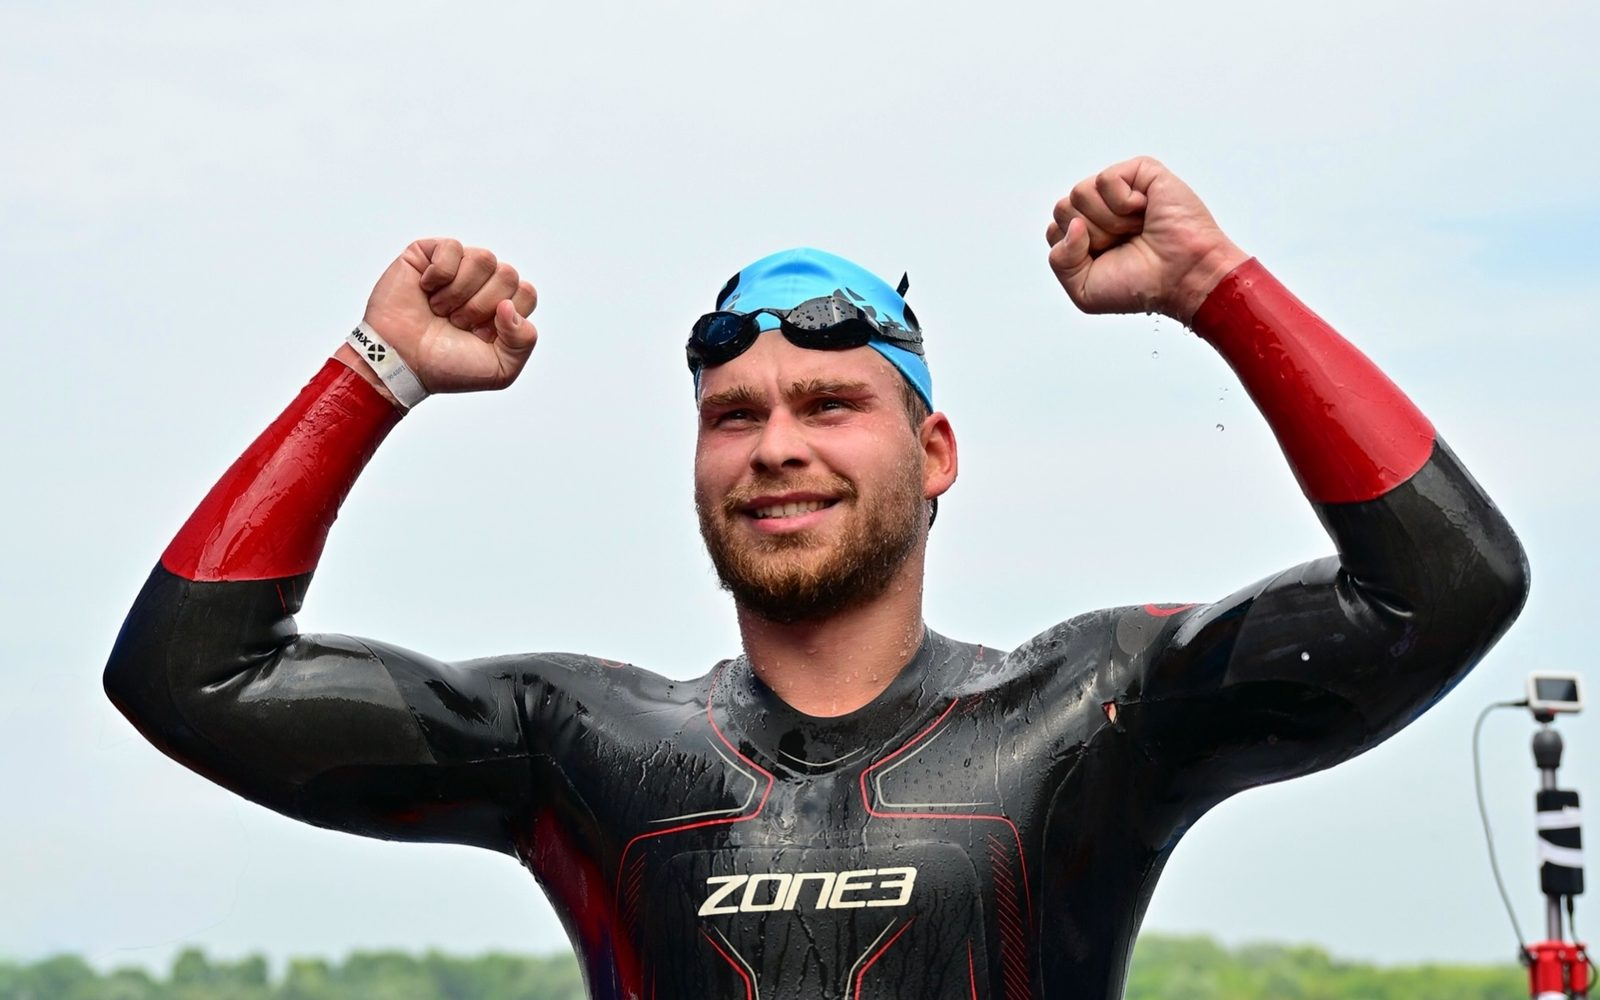
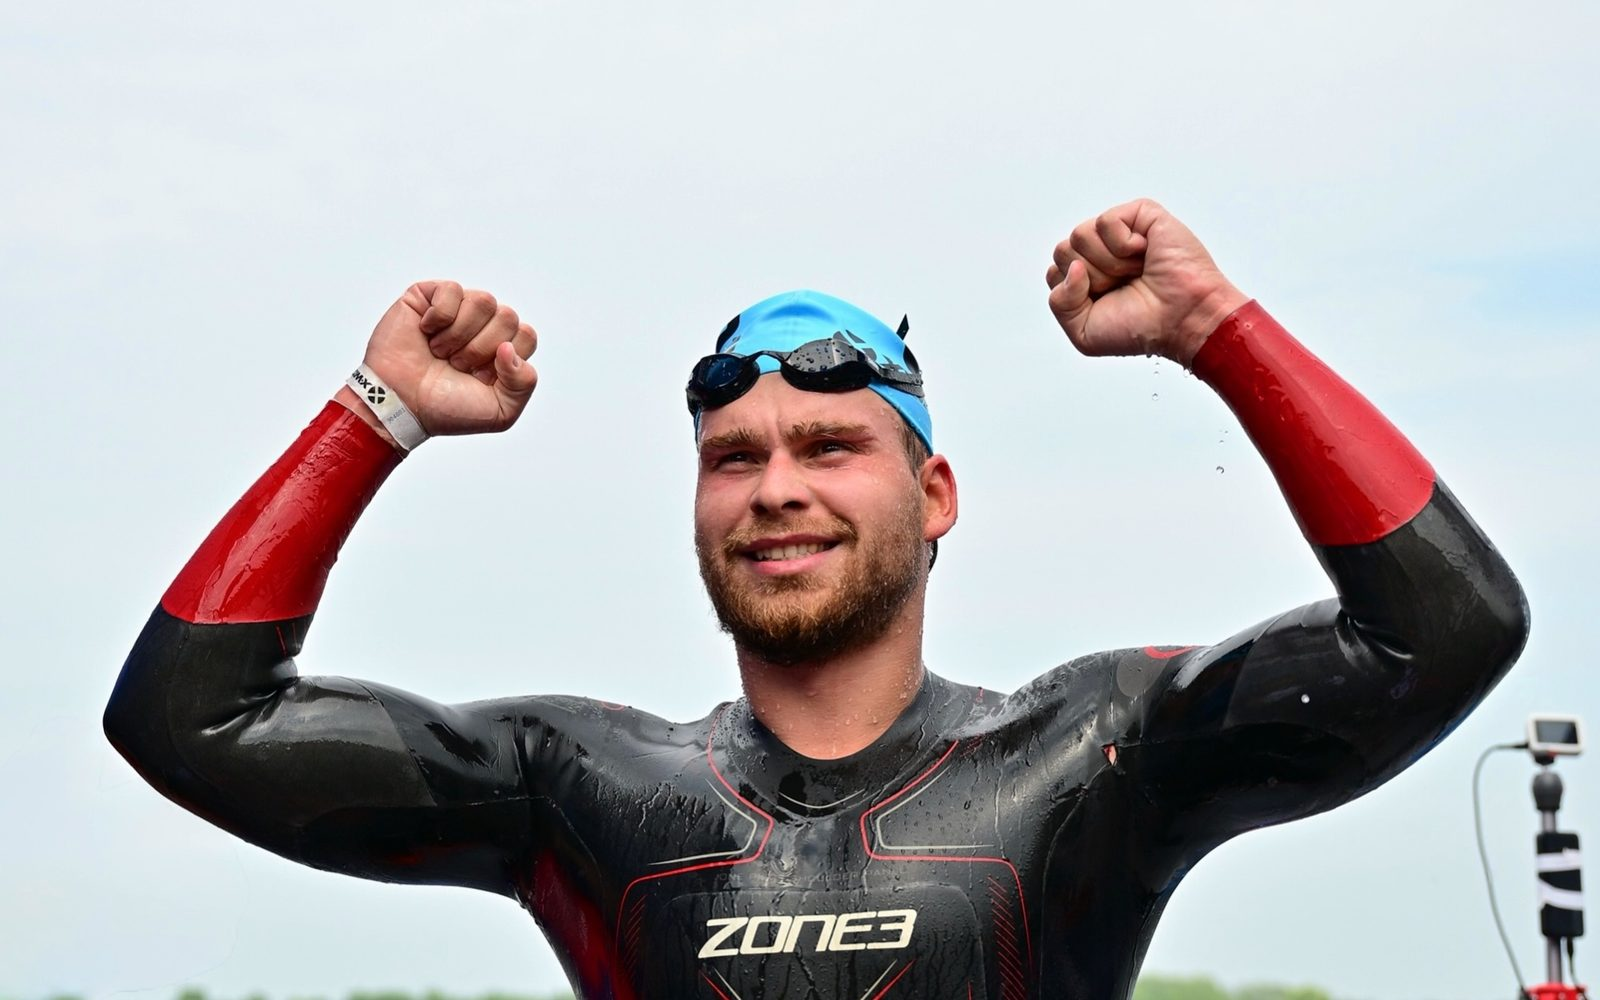
Портрет: текст на фото в матовой плашке, новые кадры в полном качестве (очки у бортика, Доха, прыжок, бассейн, финиш)

diff --git a/index.html b/index.html
@@ -20,7 +20,7 @@
   <meta name="twitter:card" content="summary_large_image">
   <link rel="preload" href="fonts/inter-cyrillic.woff2" as="font" type="font/woff2" crossorigin>
     <script>document.documentElement.classList.add('js')</script>
-  <link rel="stylesheet" href="css/style.css?v=1789386276">
+  <link rel="stylesheet" href="css/style.css?v=1789387455">
   <script type="application/ld+json">
   {"@context": "https://schema.org", "@graph": [{"@type": "Person", "@id": "https://akifevav0-droid.github.io/shabarshov/#person", "name": "Анатолий Шабаршов", "jobTitle": "Тренер по плаванию", "description": "Мастер спорта по плаванию, тренер для взрослых. Групповые и персональные тренировки в Москве, подготовка к открытой воде и триатлону.", "url": "https://akifevav0-droid.github.io/shabarshov/", "image": "https://akifevav0-droid.github.io/shabarshov/img/anatoliy_hero.jpg", "sameAs": ["https://profi.ru/profile/ShabarshovAS/", "https://www.instagram.com/shabarshov_/", "https://t.me/shabarshov", "https://t.me/shabarshov_club"], "address": {"@type": "PostalAddress", "addressLocality": "Москва", "addressCountry": "RU"}, "alumniOf": ["Училище олимпийского резерва", "РГУФК (РГУФКСМиТ)"], "award": ["Мастер спорта по плаванию", "Всемирные игры Masters, Абу-Даби 2026: 2-е и 3-е места"]}, {"@type": "SportsOrganization", "@id": "https://akifevav0-droid.github.io/shabarshov/#club", "name": "SHABARSHOV swimming club", "url": "https://akifevav0-droid.github.io/shabarshov/", "founder": {"@id": "https://akifevav0-droid.github.io/shabarshov/#person"}, "areaServed": "Москва", "sport": "Плавание", "makesOffer": [{"@type": "Offer", "price": "0", "priceCurrency": "RUB", "itemOffered": {"@type": "Service", "name": "Пробная тренировка по плаванию"}}, {"@type": "Offer", "price": "13600", "priceCurrency": "RUB", "itemOffered": {"@type": "Service", "name": "Абонемент на 8 групповых тренировок"}}, {"@type": "Offer", "price": "7500", "priceCurrency": "RUB", "itemOffered": {"@type": "Service", "name": "Абонемент на 4 групповые тренировки"}}, {"@type": "Offer", "price": "2000", "priceCurrency": "RUB", "itemOffered": {"@type": "Service", "name": "Разовая групповая тренировка"}}, {"@type": "Offer", "price": "3000", "priceCurrency": "RUB", "description": "от 3 000 ₽ + проход в бассейн", "itemOffered": {"@type": "Service", "name": "Персональная тренировка по плаванию"}}, {"@type": "Offer", "price": "3500", "priceCurrency": "RUB", "description": "за час", "itemOffered": {"@type": "Service", "name": "Тренировка на открытой воде"}}]}, {"@type": "SportsActivityLocation", "@id": "https://akifevav0-droid.github.io/shabarshov/#pool1", "name": "Бассейн СК МГТУ им. Баумана", "sport": "Плавание", "parentOrganization": {"@id": "https://akifevav0-droid.github.io/shabarshov/#club"}, "address": {"@type": "PostalAddress", "streetAddress": "Госпитальная наб., 4, стр. 1", "addressLocality": "Москва", "addressCountry": "RU"}, "openingHoursSpecification": [{"@type": "OpeningHoursSpecification", "dayOfWeek": ["Monday", "Thursday"], "opens": "19:45"}, {"@type": "OpeningHoursSpecification", "dayOfWeek": ["Monday", "Thursday"], "opens": "20:30"}], "description": "Группы: 19:45 средний и продвинутый уровень, 20:30 начинающий и средний, м. Электрозаводская"}, {"@type": "SportsActivityLocation", "@id": "https://akifevav0-droid.github.io/shabarshov/#pool2", "name": "Формула Воды", "sport": "Плавание", "parentOrganization": {"@id": "https://akifevav0-droid.github.io/shabarshov/#club"}, "address": {"@type": "PostalAddress", "streetAddress": "Мироновская ул., 27, стр. 2", "addressLocality": "Москва", "addressCountry": "RU"}, "openingHoursSpecification": [{"@type": "OpeningHoursSpecification", "dayOfWeek": ["Tuesday", "Friday"], "opens": "20:45"}], "description": "Группа начинающего и среднего уровня, м. Семёновская"}, {"@type": "SportsActivityLocation", "@id": "https://akifevav0-droid.github.io/shabarshov/#pool3", "name": "Акватория ЗИЛ", "sport": "Плавание", "parentOrganization": {"@id": "https://akifevav0-droid.github.io/shabarshov/#club"}, "address": {"@type": "PostalAddress", "streetAddress": "Автозаводская ул., 23А к4", "addressLocality": "Москва", "addressCountry": "RU"}, "openingHoursSpecification": [{"@type": "OpeningHoursSpecification", "dayOfWeek": ["Wednesday", "Friday"], "opens": "07:45"}], "description": "Мини-группа до 5 человек"}, {"@type": "SportsActivityLocation", "@id": "https://akifevav0-droid.github.io/shabarshov/#pool4", "name": "Лужники", "sport": "Плавание", "parentOrganization": {"@id": "https://akifevav0-droid.github.io/shabarshov/#club"}, "address": {"@type": "PostalAddress", "addressLocality": "Москва", "addressCountry": "RU"}, "description": "Персональные тренировки по договорённости, м. Спортивная"}, {"@type": "FAQPage", "mainEntity": [{"@type": "Question", "name": "Я не умею плавать. С чего начать?", "acceptedAnswer": {"@type": "Answer", "text": "С бесплатной пробной тренировки. За первое занятие вы подружитесь с водой и станете увереннее. Дальше подберём формат: группу по уровню или персональные занятия."}}, {"@type": "Question", "name": "Что взять на первую тренировку?", "acceptedAnswer": {"@type": "Answer", "text": "Справку для бассейна (как получить, расскажу при записи), купальник или плавки, шапочку, очки, сланцы, полотенце."}}, {"@type": "Question", "name": "Как проходит тренировка?", "acceptedAnswer": {"@type": "Answer", "text": "Час в воде: разминка, основное задание, заминка. Я в воде рядом и показываю упражнения сам."}}, {"@type": "Question", "name": "Что, если пропущу занятие?", "acceptedAnswer": {"@type": "Answer", "text": "Предупредите заранее, и найдём, как отработать. Пропуск без предупреждения не переносится."}}]}]}
   </script>
@@ -60,11 +60,11 @@
   <section class="band anchor" id="trener">
     <div class="wrap">
       <div class="portret rv">
-        <div class="portret__photo slides"><img class="slide is-on" src="img/wide_pool.jpg" width="1600" height="1000" alt="Анатолий Шабаршов в воде у дорожки бассейна" loading="lazy" decoding="async"><img class="slide" src="img/wide_finish.jpg" width="1600" height="1000" alt="Анатолий Шабаршов на финише заплыва на открытой воде" aria-hidden="true" loading="lazy" decoding="async"><img class="slide" src="img/wide_beach.jpg" width="1600" height="1000" alt="Анатолий Шабаршов выходит из воды после заплыва" aria-hidden="true" loading="lazy" decoding="async"><img class="slide" src="img/wide_singapore.jpg" width="1600" height="1000" alt="Анатолий Шабаршов на чемпионате мира Masters в Сингапуре" aria-hidden="true" loading="lazy" decoding="async"></div>
-      </div>
-      <div class="portret__cap rv">
+        <div class="portret__photo slides"><img class="slide is-on" src="img/wide_goggles.jpg" width="1600" height="1000" alt="Анатолий Шабаршов в воде у бортика бассейна" loading="lazy" decoding="async"><img class="slide" src="img/wide_doha.jpg" width="1600" height="1000" alt="Анатолий Шабаршов у открытого бассейна на закате, Доха" aria-hidden="true" loading="lazy" decoding="async"><img class="slide" src="img/wide_dive.jpg" width="1600" height="1000" alt="Анатолий Шабаршов в прыжке со стартовой тумбы" aria-hidden="true" loading="lazy" decoding="async"><img class="slide" src="img/wide_pool.jpg" width="1600" height="1000" alt="Анатолий Шабаршов в воде у дорожки бассейна" aria-hidden="true" loading="lazy" decoding="async"><img class="slide" src="img/wide_finish.jpg" width="1600" height="1000" alt="Анатолий Шабаршов на финише заплыва на открытой воде" aria-hidden="true" loading="lazy" decoding="async"></div>
+      <div class="portret__card">
         <h2>В воде рядом с&nbsp;вами,<br>а&nbsp;не&nbsp;на&nbsp;бортике</h2>
         <div class="portret__side"><p>Показываю каждое упражнение сам, в&nbsp;воде. После тренировки присылаю видеоразбор техники и&nbsp;задание на&nbsp;следующий раз.</p><ul class="portret__facts"><li>Мастер спорта</li><li>10&nbsp;лет тренерского стажа</li><li>Masters 2026: серебро и&nbsp;бронза</li></ul></div>
+      </div>
       </div>
     </div>
   </section>

diff --git a/css/style.css b/css/style.css
@@ -655,10 +655,6 @@ html { overflow-x: hidden; }
   .portret__facts { font-size: 13px; margin-top: 16px; }
 }
 @media (max-width: 734px) {
-  .portret__photo .slide[src*="pool"] { object-position: 40% 40%; }
-  .portret__photo .slide[src*="finish"] { object-position: 50% 30%; }
-  .portret__photo .slide[src*="beach"] { object-position: 52% 30%; }
-  .portret__photo .slide[src*="singapore"] { object-position: 50% 30%; }
   .portret__facts { gap: 6px 14px; }
   .portret__facts li + li::before { display: none; }
 }
@@ -686,3 +682,27 @@ html { overflow-x: hidden; }
 }
 .portret__cap .portret__facts { gap: 8px 28px; }
 .portret__cap .portret__facts li + li::before { display: none !important; }
+
+/* Портрет: текст на фото в матовой стеклянной плашке — читается на любом кадре */
+.portret { aspect-ratio: 16 / 9 !important; }
+.portret__card { position: absolute; left: 32px; bottom: 32px; z-index: 3; max-width: 560px; padding: 30px 34px 28px; border-radius: 22px; background: rgba(22, 20, 34, .42); backdrop-filter: blur(22px) saturate(140%); -webkit-backdrop-filter: blur(22px) saturate(140%); box-shadow: inset 0 0 0 1px rgba(255, 255, 255, .12); color: #fff; text-align: left; }
+.portret__card h2 { margin: 0 0 12px; color: #fff; text-align: left; font-size: clamp(26px, 2.6vw, 38px); line-height: 1.12; }
+.portret__card .portret__side p { margin: 0; color: rgba(255, 255, 255, .88); font-size: 16px; line-height: 1.55; }
+.portret__card .portret__facts { display: flex; flex-wrap: wrap; gap: 6px 22px; margin: 18px 0 0; padding: 16px 0 0; border-top: 1px solid rgba(255, 255, 255, .18); list-style: none; font-size: 13px; font-weight: 500; color: #fff !important; text-shadow: none; }
+.portret__card .portret__facts li + li::before { display: none !important; }
+.portret__photo .slide[src*="doha"] { object-position: 75% 50%; }
+@media (max-width: 900px) {
+  .portret { aspect-ratio: 4 / 5 !important; }
+  .portret__card { left: 12px; right: 12px; bottom: 12px; max-width: none; padding: 20px 20px 18px; border-radius: 18px; }
+  .portret__card h2 { font-size: 23px; }
+  .portret__card .portret__side p { font-size: 14px; }
+  .portret__card .portret__facts { font-size: 12px; gap: 4px 14px; margin-top: 12px; padding-top: 12px; }
+  .portret__photo .slide[src*="goggles"] { object-position: 50% 30%; }
+  .portret__photo .slide[src*="doha"] { object-position: 72% 30%; }
+  .portret__photo .slide[src*="dive"] { object-position: 55% 30%; }
+  .portret__photo .slide[src*="pool"] { object-position: 70% 40%; }
+  .portret__photo .slide[src*="finish"] { object-position: 50% 20%; }
+}
+.portret__card { max-width: 470px; }
+@media (max-width: 900px) { .portret__card .portret__side p { display: none; } .portret__card .portret__facts { margin-top: 10px; } .portret { aspect-ratio: 3 / 4 !important; } }
+@media (min-width: 901px) { .portret__card { max-width: 420px; left: 28px; bottom: 28px; padding: 26px 30px 24px; } }

diff --git a/politika.html b/politika.html
@@ -7,7 +7,7 @@
   <meta name="robots" content="noindex, follow">
   <link rel="icon" href="img/icon-light.svg" type="image/svg+xml">
   <link rel="apple-touch-icon" href="img/icon-light-180.png">
-  <link rel="stylesheet" href="css/style.css?v=1789386276">
+  <link rel="stylesheet" href="css/style.css?v=1789387455">
 </head>
 <body class="page-doc">
 <header class="nav">
